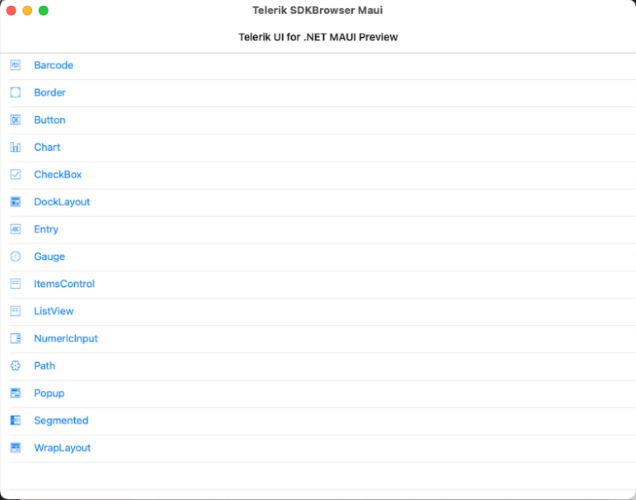
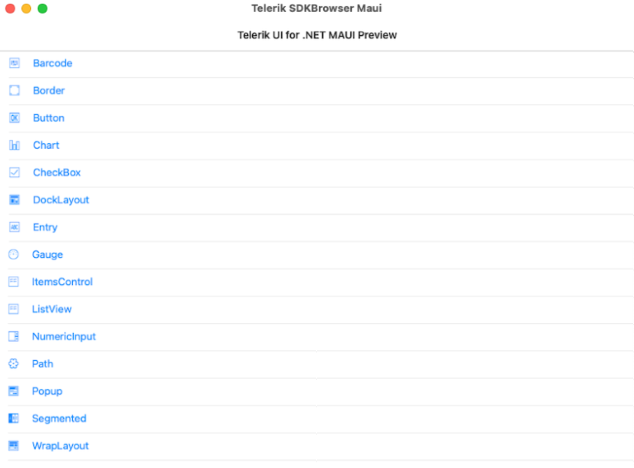
Updated Getting Started article and SDKBrowser macOS image

diff --git a/maui-getting-started.md b/maui-getting-started.md
@@ -9,99 +9,112 @@ position: 1
 
 # Getting Started
 
-This article will guide you through the basics of Telerik UI for .NET MAUI and how to start using the product.
+This guide provides the information you need to start using the Telerik UI for .NET MAUI suite - it includes instructions about the available installation approaches, the required dependencies as well as links to additional resources.
 
-## Getting Started with .NET MAUI
+## Setup Your .NET MAUI App
 
-Information about what are the exact steps to get started with Microsoft .NET MAUI and what are the system requirements are described inside the [Microsoft .NET MAUI Documentation page](https://docs.microsoft.com/en-us/dotnet/maui/get-started/installation)
+Before you start with the installation of Telerik UI for .NET MAUI, ensure that you have a running .NET MAUI application. Information about what are the exact steps to get started with Microsoft .NET MAUI and what are the system requirements are described inside the [Microsoft .NET MAUI Official Documentation](https://docs.microsoft.com/en-us/dotnet/maui/get-started/installation).
 
-## Getting Started with Telerik UI for .NET MAUI
+Once you have .NET MAUI configured on your machine, install/run .NET MAUI Check tool - this is a command line utility that verifies your development environment and installs any missing components and workloads. Go to [dotnet-maui-check Github repo](https://github.com/Redth/dotnet-maui-check) for more details on how to install and use the tool.
 
-Once you have .NET MAUI configured on your machine, then follow the steps needed to set up the Telerik UI for .NET MAUI. 
+>important Once you install the missing components, run `maui-check` again to ensure that your environment has the latest tools and SDKs required by .NET MAUI.
 
->important Run `maui-check`. It is required for using Telerik UI for MAUI controls and build and run the DemoApp.
+## Download Telerik UI for .NET MAUI
 
->important Telerik .NET MAUI Preview controls are available for Android, iOS, macOS and WinUI.
+>important Telerik .NET MAUI Preview controls are available for Android, iOS, macOS and Windows.
 
-## Download product files from Telerik UI for .NET MAUI product page
+You can choose either of the following approaches for downloading the Telerik UI for .NET MAUI product files:
 
-**1. Log into your [Telerik Account](https://www.telerik.com/account/).**
+* [Telerik UI for .NET MAUI product page](#download-from-telerik-ui-for-net-maui-product-page)
+* [Your Telerik account](#download-product-files-from-your-telerik-account)
 
-**2. Go to [Telerik UI for MAUI product page](https://www.telerik.com/maui-ui)**
+### Download from Telerik UI for .NET MAUI Product Page
 
-**3. Click Download Telerik UI for .NET MAUI button:**
+**1.** Log into your [Telerik Account](https://www.telerik.com/account/).
+
+**2.** Go to the [Telerik UI for .NET MAUI product page](https://www.telerik.com/maui-ui).
+
+**3.** Click the **Download Telerik UI for .NET MAUI** button:
 
 ![Telerik UI for .NET MAUI](images/download_maui.png)
 
-**4. The download starts automatically**
+**4.** As a result, the download starts automatically.
 
 ![Telerik UI for .NET MAUI](images/downloading-maui.png)
 
-## Download product files from your Telerik Account
+### Download product files from your Telerik Account
 
-**1. Log into your [Telerik Account](https://www.telerik.com/account/).**
+**1**. Log into your [Telerik Account](https://www.telerik.com/account/).
 
-**2. Click on the __Downloads__ tab:**
+**2.** Click on the __Downloads__ tab:
 
 ![Telerik UI for .NET MAUI](images/download-tab.png)
 
-**3. Search maui and Select __Telerik UI for .NET MAUI__ product title:**
+**3**. Search maui and Select __Telerik UI for .NET MAUI__ product title:
 
 ![Telerik UI for .NET MAUI](images/search-for-maui.png)
 
-**4. The next page allows you to download the Automatic Installations .msi file, .pkg file and Telerik .NET MAUI NuGet Package:**
+**4.** The next page allows you to download the Automatic Installations .msi file, .pkg file and Telerik .NET MAUI NuGet Package:
 
 ![Telerik UI for .NET MAUI](images/product-files.png)
 
-## Installation for Windows
+## Install Telerik UI for .NET MAUI
 
-* Telerik_UI_for_Maui_[version]_Preview.msi - runnable msi file used for automatic installation (for use on PC). Run the MSI file and follow the instructions. On a 32bit machine the wizard will suggest to install the UI for .NET MAUI components in the following folder: C:\Program Files\Progress\ or C:\Program Files (x86)\Progress\ for a 64bit machine.
+* [Installation for Windows](#installation-for-windows)
+* [Installation for MacOS](#installation-for-macos)
+* [Installation for Windows and MacOS with NuGet](#installation-with-nuget)
+
+### Installation for Windows
+
+**Telerik_UI_for_Maui_[version]_Preview.msi** is a runnable .msi file that is used for automatic installation on PC only. Run the file and follow the instructions.
+
+On a 32bit machine the wizard will suggest to install the Telerik UI for .NET MAUI components in the following folder: C:\Program Files\Progress\ or C:\Program Files (x86)\Progress\ for a 64bit machine.
 
 >important Specify different installation folder with a shorter path. For example install the Telerik UI for .NET MAUI components on **C:\T\** folder. **D:\T\**, etc.
+>
+>If the path is too long the following error occurs: *Error occurred while restoring NuGet packages: The specified path, file name, or both are too long. The fully qualified file name must be less than 260 characters, and the directory name must be less than 248 characters.*
 
-If the path is too long the following error occurs: *Error occurred while restoring NuGet packages: The specified path, file name, or both are too long. The fully qualified file name must be less than 260 characters, and the directory name must be less than 248 characters.*
-
-The installation folder has the following subdirectories:
+The installation folder provides the following subdirectories:
 
 ![Telerik UI for MAUI Installation Folder](images/telerik-ui-for-maui-installation-folder.png)
 
-* Binaries - Contains the needed dlls for Android and iOS 
+* Binaries - Contains the needed assemblies for Android, iOS, MacCatalyst and WinUI
 * Examples - SDK App with Telerik UI for .NET MAUI controls
-* LicenseAgreements - provides the product EULA.
+* LicenseAgreements - Provides the product EULA.
 * Packages - Telerik_UI_for_Maui_[version]_Preview.nupkg file
 
-## Installation for macOS
+### Installation for macOS
 
-* Telerik_UI_for_Maui_[version]_Preview.pkg - runnable pkg file used for automatic installation (for use on Mac).
+**Telerik_UI_for_Maui_[version]_Preview.pkg** is a runnable .pkg file that is used for automatic installation Mac only.
 
-The installation folder has the following subdirectories:
+The installation folder provides the following subdirectories:
 
 ![Telerik UI for .NET MAUI Installation Folder](images/installation-macos.png)
 
-* Binaries - Contains the needed dlls for Android and iOS 
+* Binaries - Contains the needed dlls for Android, iOS and MacCatalyst 
 * Examples - SDK App with Telerik UI for .NET MAUI controls
 * LicenseAgreements - provides the product EULA.
 * Packages - Telerik_UI_for_Maui_[version]_Preview.nupkg file
 
-## NuGet Package
+### Installation with NuGet
 
-* Telerik_UI_for_Maui_[version]_Preview.nupkg file for Windows and macOS users.
-
-The Telerik UI for .NET MAUI Nuget Package is available in the **Telerik NuGet Server**.
+**Telerik_UI_for_Maui_[version]_Preview.nupkg** file is intended both for Windows and MacOS users. The Telerik UI for .NET MAUI NuGet package is available in the **Telerik NuGet Server**.
 
 ![Telerik UI for MAUI Installation Folder](images/maui-nuget.png)
 
-## Register the needed handlers and renderers
+>For more information, refer to the [guide on installing Telerik UI for .NET MAUI with the Telerik NuGet Server]({% slug telerik-nuget-server %}).
 
-In order to visualize the Telerik UI for .NET MAUI controls you have to register the needed renderers Register the Telerik controls through `Telerik.Maui.Controls.Compatibility.UseTelerik` extension method called inside the `Configure` method of the **Startup.cs** file of your project. 
+## Register required handlers and renderers
 
-1. Add the needed usings inside the `Startup.cs` file:
+To visualize the Telerik UI for .NET MAUI controls, you have to register the required renderers by calling the `Telerik.Maui.Controls.Compatibility.UseTelerik` extension method inside the `Configure` method of the `Startup.cs` file of your project.
+
+**1.** Add the needed usings inside the `Startup.cs` file:
 
 ```C#
 using Telerik.Maui.Controls.Compatibility;
 ```
 
-2. Call `UseTelerik()` method inside the `Startup.cs` file:
+**2.** Call `UseTelerik()` method inside the `Startup.cs` file:
 
 
 ```C#
@@ -121,13 +134,12 @@ public class Startup : IStartup
 }
 ```
 
-## SDKBrowser Maui Demo Application
+## SDKBrowser .NET MAUI Demo Application
 
-Telerik UI for .NET MAUI.Preview version comes with a sample app, which demonstrates the Telerik Preview controls for Microsoft .NET MAUI. For more details visit our [Demo App article]({%slug maui-demo-app%}).
+Telerik UI for .NET MAUI.Preview version comes with a sample app, which demonstrates the Telerik Preview controls for Microsoft .NET MAUI. For more information, refer to the [Demo App article]({%slug maui-demo-app%}).
 
 ## See Also
 
-* [Border]({%slug border-overview%})
-* [Button]({%slug button-overview%})
-* [Chart]({%slug chart-overview%})
-* [ItemsControl]({%slug itemscontrol-overview%})
+* [Install Telerik UI for .NET MAUI with the Telerik NuGet Server]({%slug telerik-nuget-server %})
+* [Getting Started with Telerik UI for .NET MAUI Demo App]({% slug maui-demo-app %})
+* [Getting Started with Telerik UI for .NET MAUI Barcode]({% slug barcode-overview %})
